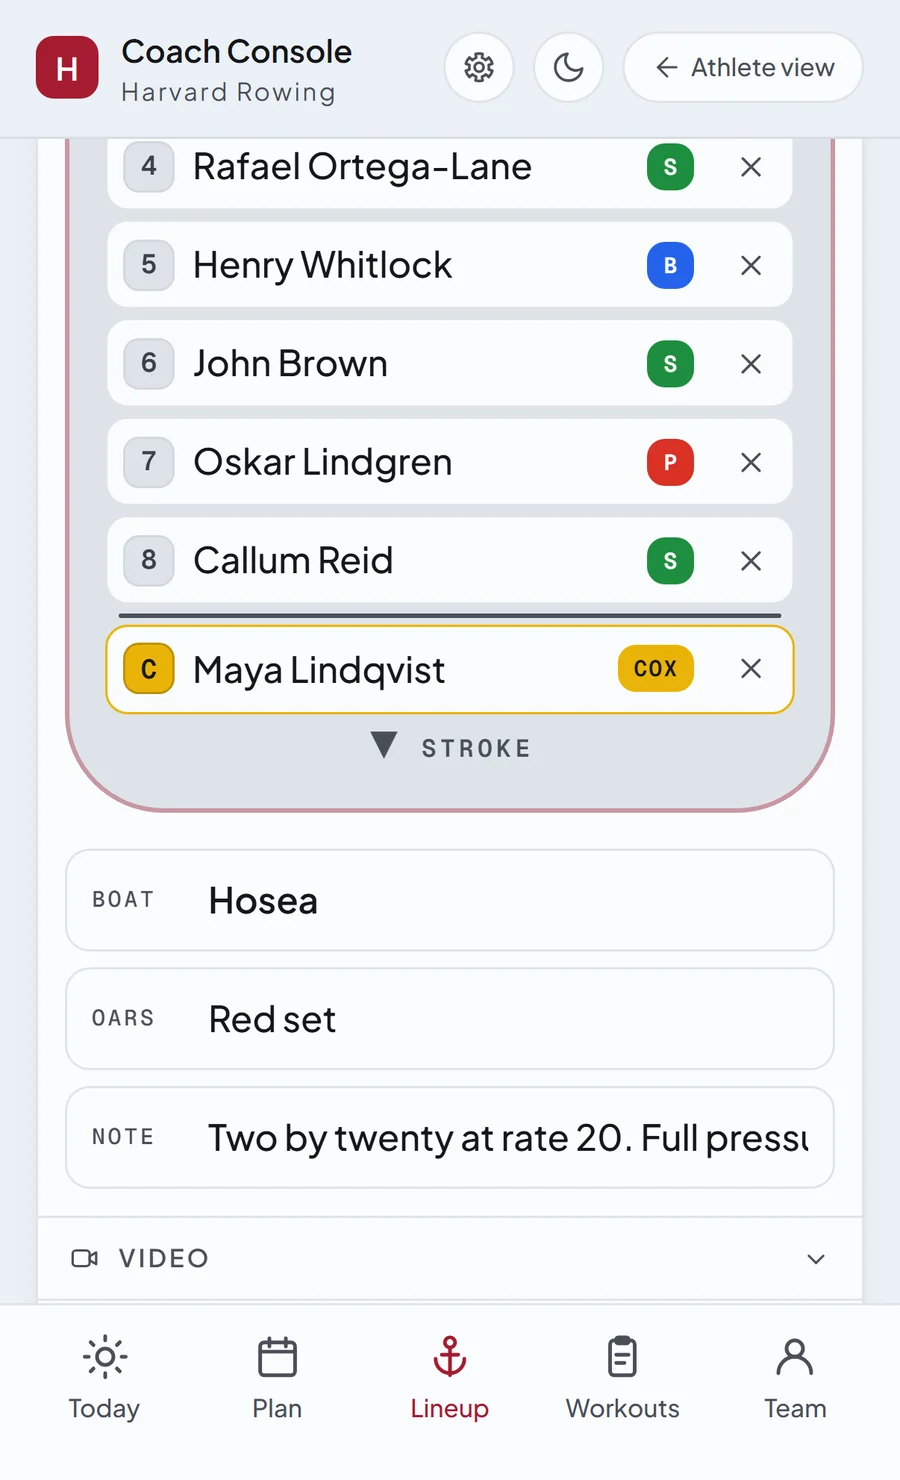
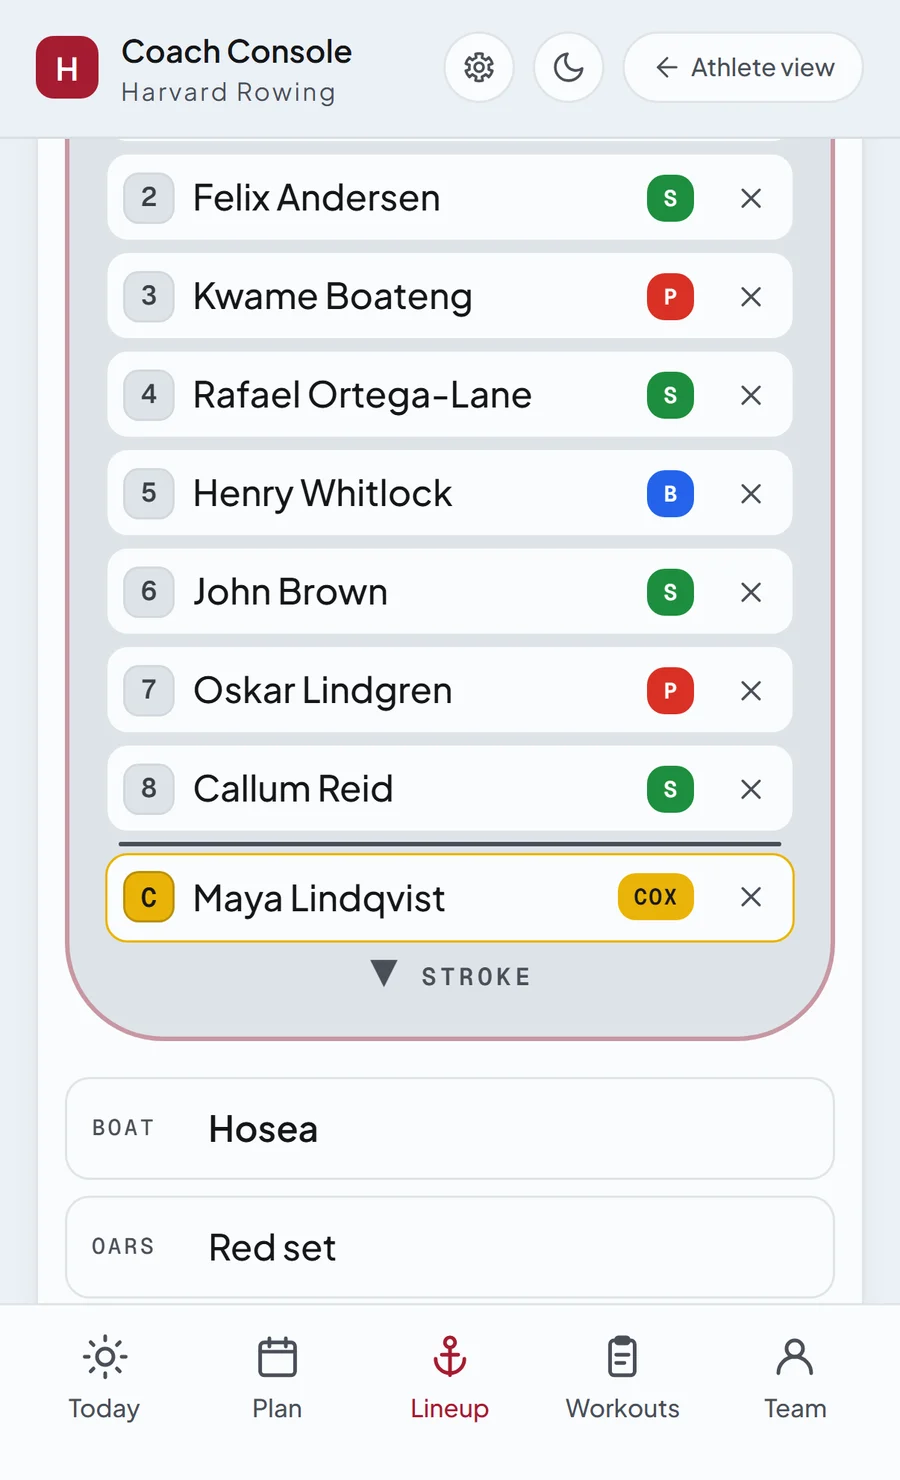
feat(landing): the coach's video frame stops at the oars
Owner, 2026-09-17: "chci aby to tam bylo videt jen po oars tam dole ze oars
budou uplne dole."

Step 4's frame is cut above the Video row now, so the last thing in it is the
OARS field sitting on the bottom edge, with BOAT above it and the crew — 2 seat
down to the cox, plus the hull's stroke cap — above that. Two more seats than
the shut-strip version showed.

The step keeps its words about connecting a drive and tapping a boat; the
picture is simply the boat a video gets attached to. Alt text follows. Light
and dark, publish bar hidden as before.

diff --git a/lib/landingCopy.ts b/lib/landingCopy.ts
@@ -1131,16 +1131,18 @@ export const coach = {
       /* ITS OWN FRAME since 2026-09-11 (website review: this step wore step
          3's picture, so a coach reading six numbered screens saw five).
 
-         THE VIDEO STRIP IS SHUT IN IT, on the owner's instruction 2026-09-17.
-         It used to be photographed open on "Connect Drive", which filled the
-         frame with an empty label field and a sign-in line and left one seat
-         of the boat showing — a step about footage that showed no crew. Shut,
-         the strip is the one row it is in the app ("Video" and a chevron), so
-         the same frame carries the end of the lineup, the boat and the oars,
-         and the tab the footage lives behind. Shot from production as the demo
-         coach, light and dark, with the publish bar hidden (see step 3). */
+         IT STOPS AT THE OARS, on the owner's instruction 2026-09-17 ("chci aby
+         to tam bylo videt jen po oars … ze oars budou uplne dole"). The frame
+         walked back in three steps that day: it was shot with the video strip
+         OPEN on "Connect Drive" — an empty label field and a sign-in line
+         where the crew should be — then shut to its one "Video" row, and now
+         cut above that row entirely. What is left is the boat: seven seats and
+         the cox, the hull's stroke cap, the boat's name and its oars, resting
+         on the bottom edge. The step's words carry the upload; the picture
+         carries what a video gets attached TO. Shot from production as the
+         demo coach, light and dark, publish bar hidden (see step 3). */
       shot: "coach-4-video.webp",
-      alt: "The foot of the boat's card on the Lineup screen: the last seats and the cox, the boat's name, its oars and the crew note, and under them the shut Video tab",
+      alt: "The foot of the boat's card on the Lineup screen: the crew from 2 seat down to the cox, then the boat's name and the oars it is rigged with",
     },
     {
       n: "5",

diff --git a/unisportforboathouses/01-market-research.md b/unisportforboathouses/01-market-research.md
@@ -1,0 +1,130 @@
+# Mapa trhu: veslařský software v Evropě a USA
+
+Průzkum z 17. 9. 2026. Počty klubů jsou z webů národních federací, konkurence
+dohledaná hledáním v jazyce dané země (ne anglicky — to je důvod, proč tenhle
+průzkum vidí věci, které v angličtině nevyskočí).
+
+## Souhrnná tabulka
+
+| Země | Klubů | Kdo tam už je | Verdikt |
+|---|---|---|---|
+| **Itálie** | **247** (~40 000 členů) | **nic veslařského** | 🟢 volné a velké |
+| Španělsko | ~150 | jen obecný sportovní software | 🟡 polovolné, jiná disciplína |
+| Řecko | 47 | nic nenalezeno | 🟡 volné, ale velikost ČR |
+| Polsko | 31 | nic nenalezeno | 🟡 volné, ale malé |
+| Česko | 47 | nic (proto vznikl Sealshell) | 🟡 volné, ale malé |
+| Německo | 478 (86 830 členů) | **efa** — zdarma, open source, od 2001 | 🔴 zavřeno |
+| Rakousko | ~35 | efa (totéž) | 🔴 zavřeno + malé |
+| Švýcarsko | ~60 | efa | 🔴 zavřeno |
+| Velká Británie | 550 | Row HQ, BoatSched | 🔴 zavřeno |
+| USA | 1 000+ | Row HQ, Boathouse Connect, iCrew | 🔴 zavřeno |
+| Francie | ~400 | AssoConnect, Kalisport, MonClub, RowingBeacon | 🔴 zavřeno |
+| Nizozemí | ~120 | e-Captain, Afschrijfboek.nl, KNRB Club | 🔴 nejhůř zavřeno |
+| Dánsko | 142 | Rokort — používá většina klubů | 🔴 zavřeno |
+
+Neprozkoumáno: Japonsko, Čína, Korea (hodně univerzitního veslování, žádný
+západní hráč, ale jazyková a kulturní bariéra), Austrálie/NZ (Row HQ tam má
+ceník, takže částečně obsazeno), Kanada, Rumunsko, Chorvatsko, Maďarsko.
+
+## Detail po zemích
+
+### 🟢 Itálie — jediný trh, který splňuje všechny tři podmínky
+
+247 afiliovaných společností, ~40 000 členů. Druhý největší trh v Evropě po
+Německu a Anglii, a oba jsou obsazené.
+
+Regionálně hustě: Lombardie 45, Sicílie 31, Lazio 26, Toskánsko 23, Ligurie 20,
+Benátsko 17, Piemont 16. Dá se objíždět po trsech.
+
+**Konkurence: nulová.** Hledání v italštině ("gestionale canottaggio",
+"registro uscite barche", "app società canottaggio") vrací výhradně pronájem
+jachet a charter lodí. Nic pro veslování.
+
+**Tvrdý důkaz, že problém existuje:** Reale Società Canottieri Bucintoro
+(Benátky, zal. 1882, jeden z nejprestižnějších klubů v zemi) má v aktuálním
+klubovém řádu popsaný **papírový "registro delle uscite"** — s posádkou (armo),
+časem výjezdu a návratu a zaškrtávacím políčkem stavu lodi při vyzvednutí
+a vrácení. To je doslova hlavní obrazovka Sealshellu, na papíře, v roce 2026.
+
+**A hlavně — italské kluby mají peníze.** "Canottieri" nejsou chudé
+dobrovolnické spolky jako české kluby. Jsou to staré společenské kluby
+s restaurací, bazénem, stovkami členů a reálným rozpočtem (Canottieri Milano,
+Canottieri Roma, Circolo Canottieri Aniene). Tam 1 500 € ročně za software
+nikdo neřeší. **Přesně ten problém, kvůli kterému nefunguje Česko, v Itálii
+neexistuje.**
+
+Rizika: vztahový trh, na studený mail se neodpovídá. Potřeba italská verze
+a ceník v eurech. Bez kontaktu na místě to nemá smysl začínat.
+
+### 🔴 DACH (Německo, Rakousko, Švýcarsko) — nejhůř dobytelné
+
+**efa (elektronisches Fahrtenbuch)** — elektronická lodní kniha, **zdarma,
+open source, vyvíjená od roku 2001, nasazená ve 300+ klubech v Německu,
+Rakousku a Švýcarsku**, pod křídly Deutscher Ruderverband. Má i efaWett na
+elektronické přihlášky na závody.
+
+Konkurovat placeným produktem proti zavedenému bezplatnému standardu je
+nejtěžší situace v softwaru. Německo je přitom největší trh v Evropě
+(478 klubů, 86 830 členů) — což je přesně důvod, proč se tam efa uchytila.
+
+### 🔴 Nizozemí — nejhorší možný případ
+
+Tři hráči najednou, a jeden z nich je samotná federace:
+- **e-Captain** — tržní lídr, oficiální partner KNRB
+- **Afschrijfboek.nl** — rezervace + kilometry + flotila
+- **KNRB Club** — **vlastní systém svazu**, postavený s FOYS
+
+Když si federace postaví vlastní produkt, trh je zavřený nadobro.
+
+### 🔴 Francie — federace doporučuje tři konkurenty
+
+FFAviron má na webu sekci "Outils de gestion de club" a oficiálně doporučuje
+**AssoConnect**, **Kalisport** (zdarma) a **MonClub**. Navíc existuje
+**RowingBeacon** — elektronický "cahier de sortie" zdarma.
+
+### 🔴 Dánsko — Rokort
+
+**Rokort** (rokort.dk) — webová lodní kniha a rezervace pro veslařské
+a kajakářské kluby, vzniklá ve spolupráci s dánskými kluby, **používá ji
+většina ze 142 klubů**.
+
+### 🔴 Velká Británie a USA
+
+UK 550 klubů, USA 1 000+. Obsazeno: **Row HQ** (tři regionální ceníky US/UK/AU,
+blog, adresář klubů, srovnávací stránky — běžící firma), **BoatSched** (UK, od
+£30/měs), **Boathouse Connect** (US), **iCrew** (US).
+
+### 🟡 Španělsko — druhý kandidát, potřeba ověřit
+
+~150 klubů. Nenašel jsem nic veslařského, jen obecný sportovní software
+(CanoeGestión, MonClub, SportEasy). **Ale** dominantní disciplínou je pobřežní
+veslování na trainerách (Baskicko, Galicie, Kantábrie) — jiný sport s jinými
+potřebami. Před vstupem ověřit zvlášť.
+
+### 🟡 Řecko a Polsko — volné, ale past
+
+Řecko **47 klubů** (přesně tolik co Česko), Polsko **31**. V obou jsem nenašel
+konkurenci — ale ze stejného důvodu, ze kterého nebyla v Česku: **nevyplatí se
+to.** Prázdný trh sám o sobě nic neznamená.
+
+## Poučení, které z toho plyne
+
+Česko nemělo konkurenci **proto, že se to nevyplatí.** Prázdné ≠ dobré.
+Trh musí být **prázdný A ZÁROVEŇ velký A ZÁROVEŇ bohatý.**
+
+Z celé Evropy splňuje všechny tři podmínky **jenom Itálie.**
+
+## Zdroje
+
+- Německo, 478 klubů / 86 830 členů — https://www.rudern.de/news/mitgliederbestandserhebung-2025
+- efa, 300+ klubů DE/AT/CH — http://efa.nmichael.de/efawett.html.de
+- Itálie, 247 společností — https://it.wikipedia.org/wiki/Federazione_Italiana_Canottaggio
+- Bucintoro, papírový registro uscite — https://www.bucintoro.org/regolamento/
+- Velká Británie, 550 klubů — https://www.britishrowing.org/knowledge/club-support/affiliation/
+- Francie, doporučené nástroje — https://www.ffaviron.fr/accompagnement-des-structures/outils-de-gestion-de-club/
+- Nizozemí, e-Captain / KNRB — https://www.e-captain.nl/voor-wie/roeiverenigingen
+- Dánsko, Rokort — https://www.gomember.com/rokort
+- Řecko, 47 klubů — https://www.kopilasia.gr/σωματεία/
+- Polsko, 31 klubů — https://pztw.pl/pztw/czlonkowie/kluby
+- Česko, 47 klubů — https://www.veslo.cz/svaz/veslarske-kluby-a-resortni-centra?disciplineId=1
+- Row HQ ceník — https://www.rowhq.app/us/pricing

diff --git a/unisportforboathouses/02-sealshell-teardown.md b/unisportforboathouses/02-sealshell-teardown.md
@@ -1,0 +1,96 @@
+# Sealshell.com — rozbor konkurenta
+
+Prohlídka webu 17. 9. 2026 (desktop i mobil, anglická i česká verze, technická
+kontrola pod kapotou).
+
+## Kdo to je
+
+SaaS pro veslařské kluby. Staví ho **Jakub Kyncl** a **Radim Hladík**, dva čeští
+veslaři z VK Blesk.
+
+- Jakub: Northeastern University Boston (absolvoval 5/2026), kapitán veslařského
+  programu 2024/25, finále A na IRA 2023, 3. a 4. na MSJ, 6. na MS U23,
+  MS 2022. Chce zpátky do reprezentace pro 2027.
+- Radim: 16 let veslování, zlato + světový rekord na čtyřce na MSJ 2018, trenér
+  ve VK Blesk od 2022, poslední rok se stará i o flotilu klubu. Učí fyziku a
+  matematiku na gymnáziu.
+
+Radimova role u flotily je důležitá: **doménovou znalost o vybavení mají
+z první ruky.**
+
+## Produkt — 11 modulů
+
+Přehled a lodní kniha · Lodě (seřízení + historie) · Vesla (tvrdost, přiřazení) ·
+Nakládání vleku · Seat racing · **Seal** (AI asistent na dotazy k seřízení) ·
+Sportovci · Stopky a tempo · Údržba (závady s fotkou, závažností, termínem) ·
+Historie · Vybavení (trenažéry, motorové čluny, vleky, nářadí)
+
+**Těžiště je vybavení a provoz loděnice, ne trénink.** Modul "Sportovci" umí jen
+výšku, váhu, časy na trenažéru a aktuální vybavení. To je jejich slabina.
+
+## Ceník
+
+| Plán | Cena | Limit |
+|---|---|---|
+| Malý klub a univerzita | $1 399 / rok (~30 000 Kč) | 100 sportovců, 5 trenérů |
+| Federace a velké kluby | $1 899 / rok (~41 000 Kč) | 300 sportovců, 10 loginů |
+
+Bez trialu. Ceník je v dolarech **i na české verzi** — plus věta "Veslařský klub
+v Česku? napište nám a domluvíme místní ceny". Tzn. dolarový ceník míří na
+USA/UK, Česko je referenční trh.
+
+### Jak sedí proti konkurenci
+
+| | 300 sportovců | trial |
+|---|---|---|
+| Sealshell | $1 899 / rok | žádný |
+| Row HQ | ~$1 360 / rok | 6 měsíců zdarma, do 20 členů zdarma navždy |
+| BoatSched | od £30/měs ≈ $460 / rok | — |
+
+**Jsou na horním konci trhu a nemají trial.** Web se o obhajobu ceny nijak
+nepokouší — žádné srovnání, žádná věta "proč to stojí víc".
+
+## Co dělají dobře
+
+- **Headline.** "Aplikace, na které běží celá loděnice" + "Postavené pro
+  veslařské kluby, ne pro tabulky." Jasný slib, jasný nepřítel (Excel).
+- **Copy psal někdo z loděnice.** "Zpožděná · venku 48 min", tvrdost vesel,
+  nakládání vleku, seat racing kde se průměry mění jak přesazuješ. Trenér
+  okamžitě pozná, že mu rozumí.
+- **Česká verze je psaná, ne přeložená.** Velký rozdíl proti zahraniční
+  konkurenci.
+- **Zakladatelský příběh je reálný a ověřitelný.** V takhle malé komunitě je to
+  jejich největší prodejní argument — víc než jakákoli funkce.
+- **Technicky čisté.** Next.js na Vercelu, načte se za ~0,2 s, 12 requestů,
+  žádné cookie lišty, žádné tracking skripty. Konzistentní design.
+- Karty funkcí, které se otevřou a ukážou obrazovku, místo seznamu odrážek.
+
+## Kde mají díry (a kde jde zaútočit)
+
+1. **Na celém webu není jediný formulář.** Nula. "Domluvit ukázku" je `mailto:`
+   odkaz — na mobilu tam většina lidí skončí.
+2. **Žádná analytika.** Ani jeden cizí skript. Netuší, kdo k nim chodí.
+3. **Chybí `og:image`.** Odkaz poslaný do trenérské WhatsApp skupiny — a tak se
+   tenhle produkt šíří — se zobrazí jako holý text.
+4. **Sekce o zakladatelích je největší na stránce** (na mobilu 3 205 px, víc než
+   ceník a všech 11 funkcí dohromady).
+5. **Žádný důkaz od zákazníků.** Ani jedno logo klubu, ani jeden citát, ani
+   jedno číslo. Za 1 399 $/rok je první otázka "kdo to používá?".
+6. **Obrazovky jsou překreslené mockupy, ne screenshoty** (3 obrázky na celém
+   webu). Hraje to proti otázce "je ten produkt vůbec hotový?".
+7. **Rolovací animace na mobilu** — při scrollování lze chytit celou obrazovku
+   prázdnou.
+8. **Žádná zkušební verze.**
+9. **Trenérská a tréninková strana je tenká.** ← **tohle je ta největší díra
+   a zároveň to, co UNIsport už umí.**
+
+## Co si z toho vzít
+
+- Nemají zákazníky a nemají referenci. **Závod není prohraný.**
+- V Itálii mají **stejný problém jako my** — jsou Češi a nikoho tam neznají.
+  Itálii nevyhraje lepší produkt, vyhraje ji ten, kdo tam má známé.
+- Jejich síla je vybavení, naše je trénink. To není náhoda — každý staví to,
+  co zná.
+- Prát se s nimi o 47 českých klubů je nesmysl. **Za zvážení stojí i zavolat
+  jim** a domluvit se: my máme trenérskou stranu a americkou univerzitní
+  scénu, oni vybavení a Evropu.

diff --git a/unisportforboathouses/README.md b/unisportforboathouses/README.md
@@ -1,0 +1,23 @@
+# UNIsport for Boathouses
+
+Podklady k rozšíření UNIsportu o modul pro veslařské loděnice a k jeho prodeji
+evropským klubům, počínaje Itálií.
+
+Vznik: 17. 9. 2026. Všechno v téhle složce je průzkum a strategie, ne kód.
+
+## Co je kde
+
+| Soubor | Co v něm je |
+|---|---|
+| [01-market-research.md](01-market-research.md) | Mapa trhu: kolik klubů v které zemi a kdo tam už je. Zdroje. |
+| [02-sealshell-teardown.md](02-sealshell-teardown.md) | Rozbor konkurenta Sealshell.com — web, ceny, silné a slabé stránky. |
+| [03-strategy.md](03-strategy.md) | Plán, proč Itálie, co je otevřená otázka, co udělat jako první. |
+| [04-coach-interview.md](04-coach-interview.md) | Pět otázek pro italského trenéra. Tisknout a vzít k telefonu. |
+| [pitch/](pitch/) | Anglický jednostránkový pitch pro italské kluby (PDF + zdroj). |
+
+## Stav k 17. 9. 2026
+
+- Průzkum trhu: hotový.
+- Rozhovory s italskými kluby: **neproběhly.** Tohle je další krok a blokuje všechno ostatní.
+- Modul pro loděnice: nepostavený. UNIsport má zatím jen trenérskou/sportovní stranu (Varsity Mode).
+- Reference: žádná. Harvardská posádka appku **nepoužívá**, je to demo. Viz varování v 03-strategy.md.
